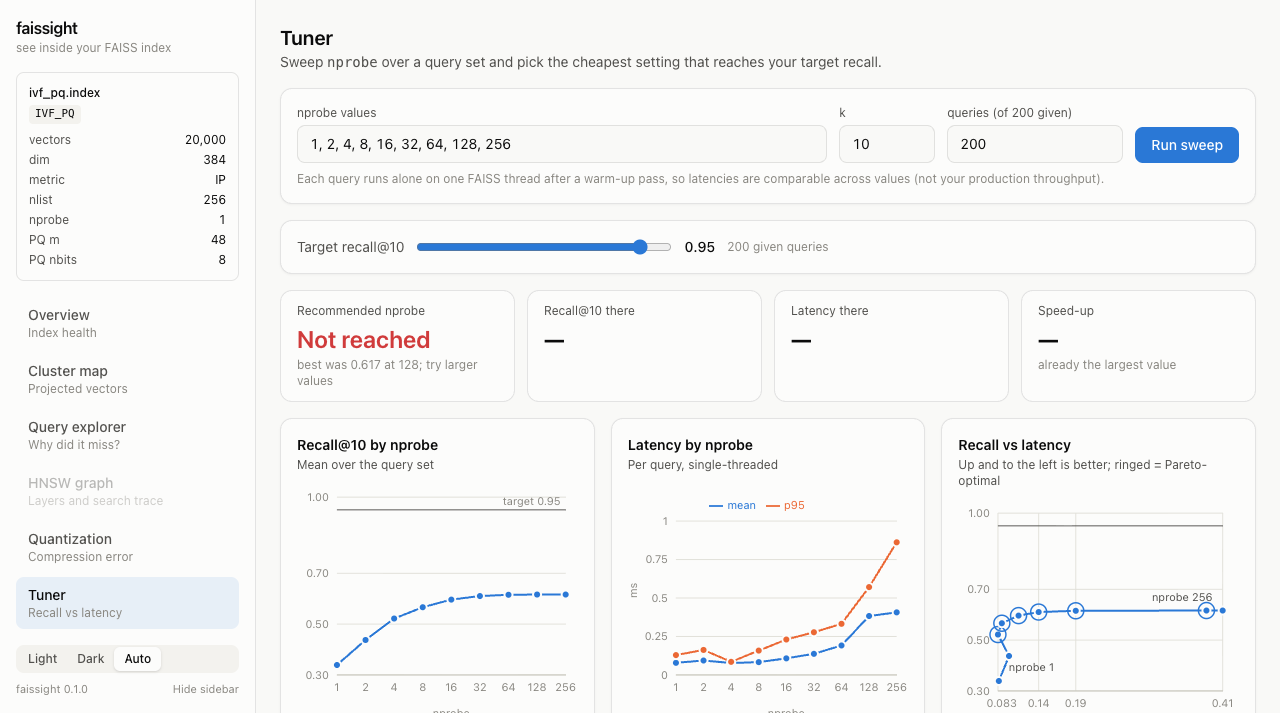
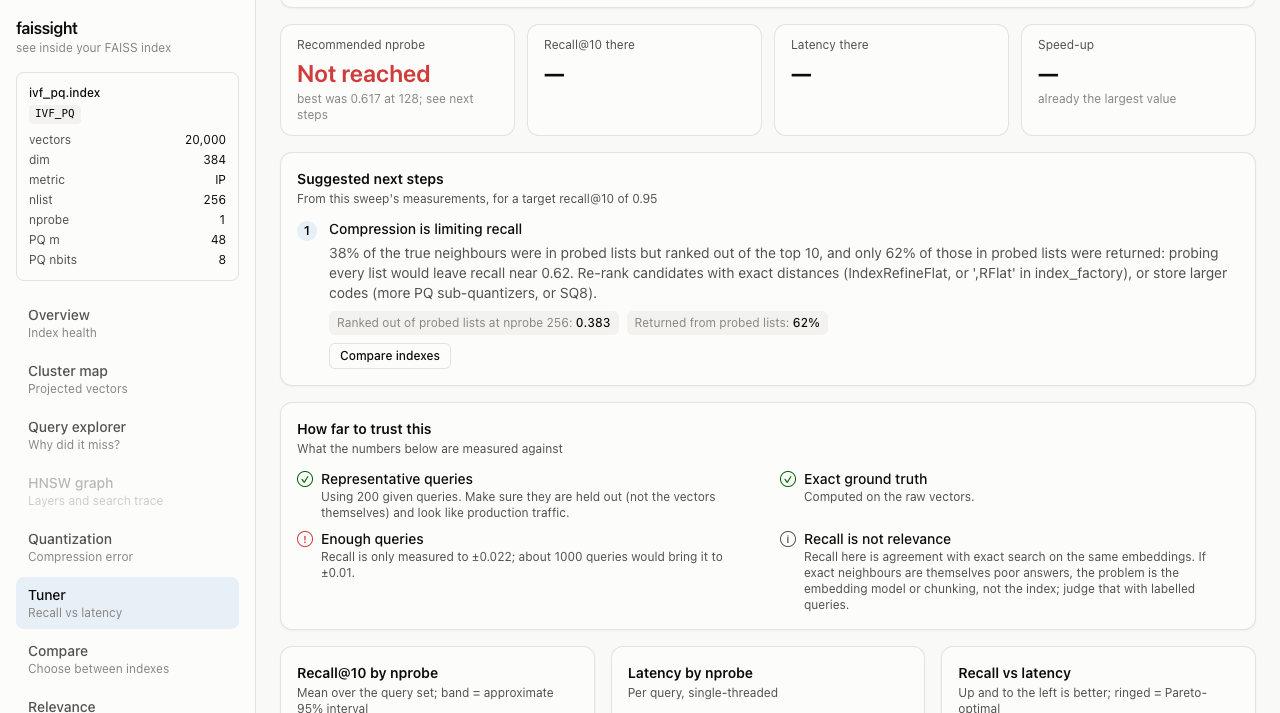
docs: retake README screenshots for the current UI
The old ones showed version 0.1.0 and a sidebar without Compare, Relevance or
History. Same RAG demo data and query; the Tuner shot now shows the suggested
next steps.

diff --git a/README.md b/README.md
@@ -72,7 +72,7 @@ report.recall, report.ivf_trace.min_nprobe_for_all
 
 <table>
 <tr>
-<td><img alt="Tuner: recall and latency by nprobe with a recommendation" src="https://raw.githubusercontent.com/rmnvg/faissight/main/docs/screenshots/tuner.png"></td>
+<td><img alt="Tuner: no nprobe reaches 0.95 recall on IVF-PQ; the suggested next step explains that compression caps recall near 0.62 and to re-rank with exact distances" src="https://raw.githubusercontent.com/rmnvg/faissight/main/docs/screenshots/tuner.png"></td>
 <td><img alt="Quantization: PQ error, compression and distance fidelity" src="https://raw.githubusercontent.com/rmnvg/faissight/main/docs/screenshots/quantization.png"></td>
 </tr>
 <tr>
